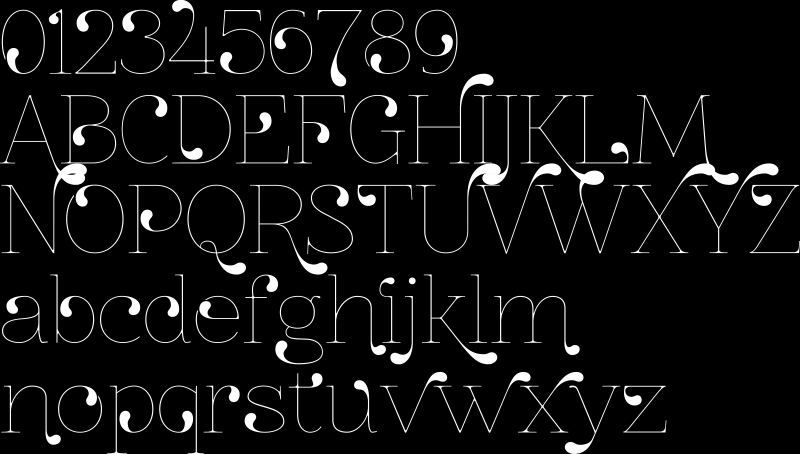
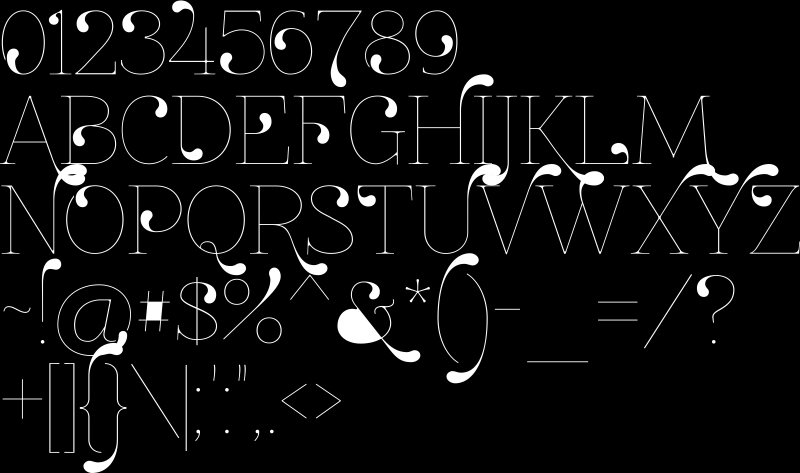
Add font renders

diff --git a/examples/test-fonts/main.go b/examples/test-fonts/main.go
@@ -24,7 +24,11 @@ import (
 
 var (
 	all = flag.Bool("all", false, "All renders all glyphs and overrides -msg")
-	msg = flag.String("msg", "M", "Message to write to Gerber file silkscreen")
+	msg = flag.String("msg", `0123456789
+ABCDEFGHIJKLM
+NOPQRSTUVWXYZ
+~!@#$%^&*()-_=/?
++[]{}\|;':",.<>`, "Message to write to Gerber file silkscreen")
 	pts = flag.Float64("pts", 12.0, "Point size to render font")
 	x   = flag.Float64("x", 0, "X starting position of font")
 	y   = flag.Float64("y", 0, "Y starting position of font")
